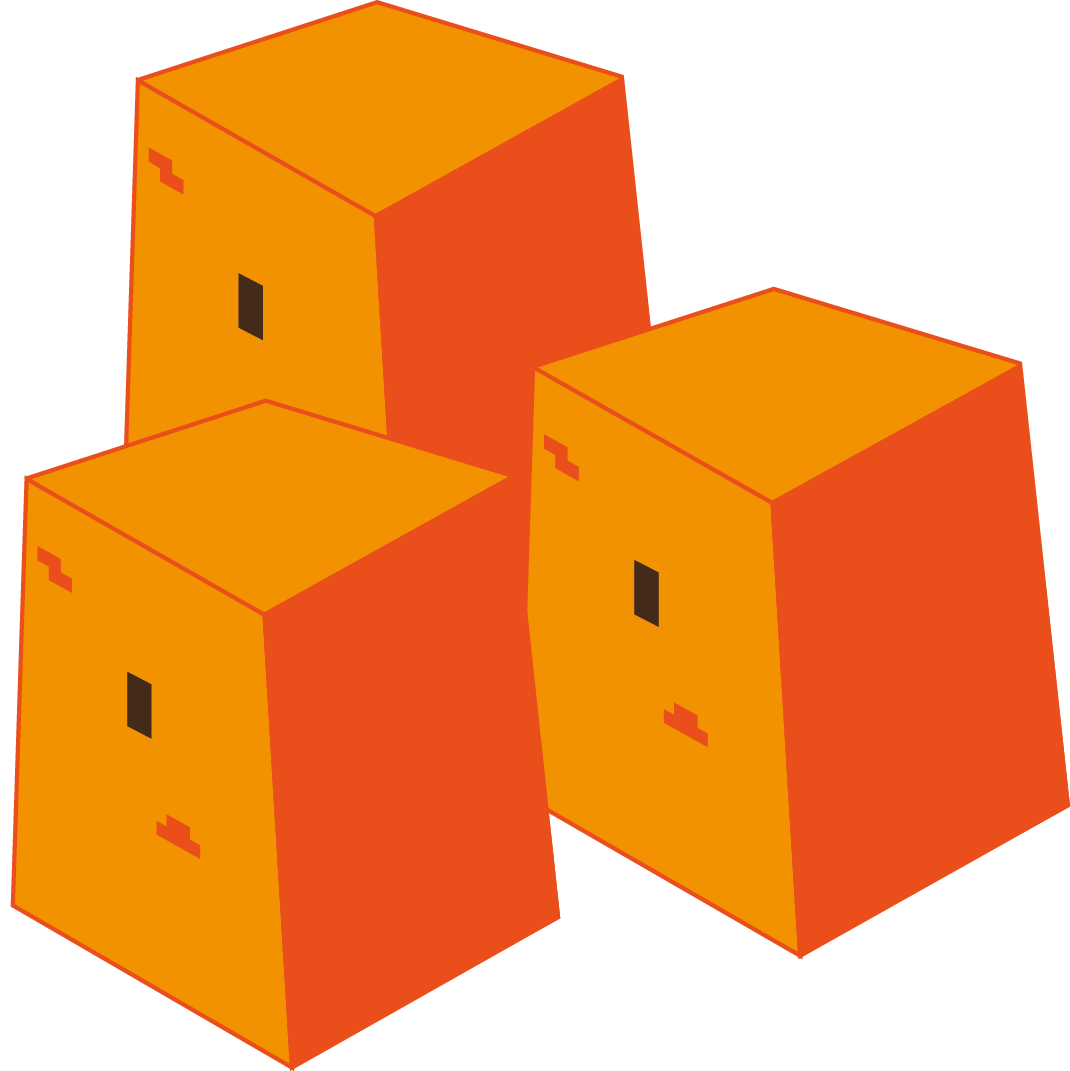
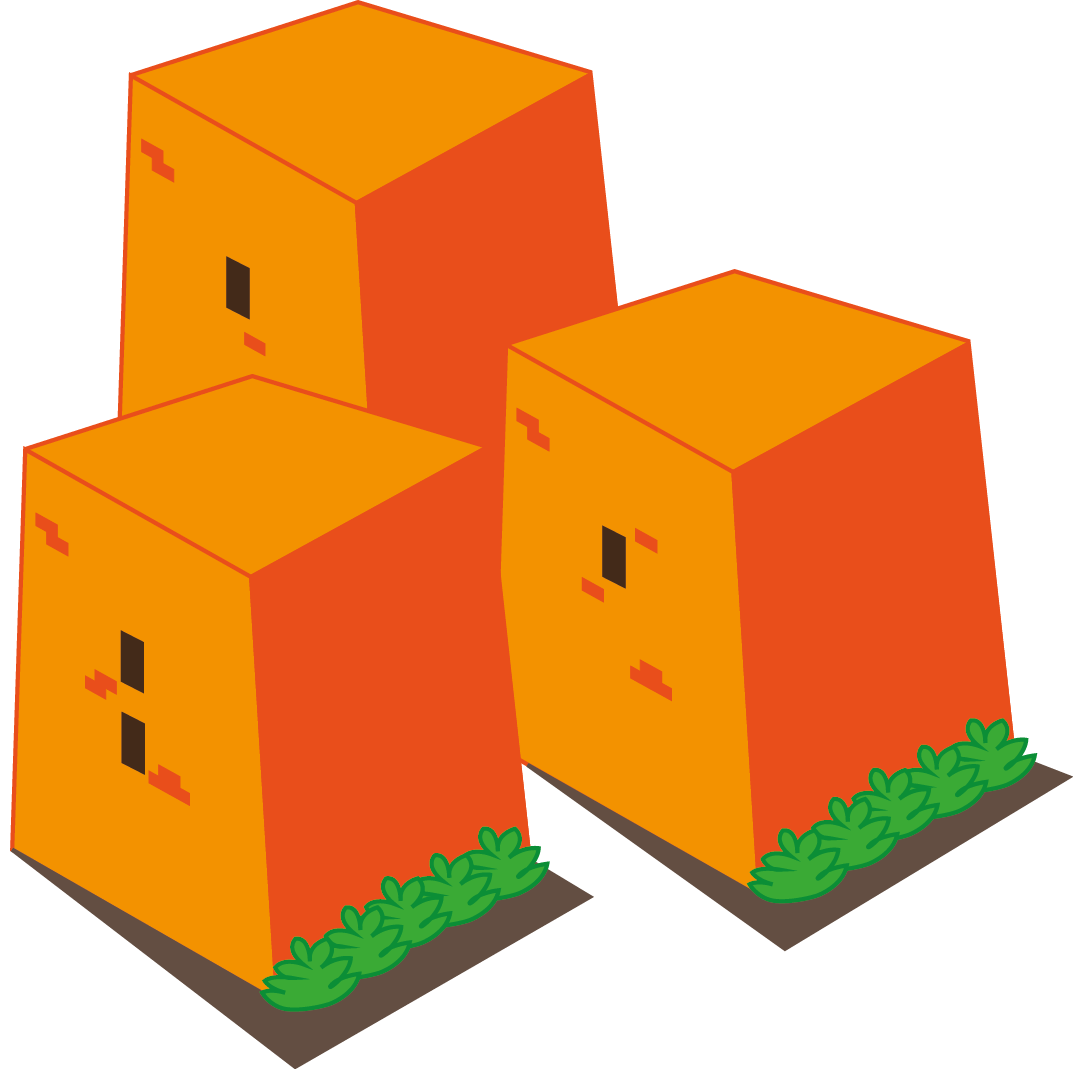
Added new props and fixed enemy color (again)

diff --git a/Assets/Scripts/Enemies/EnemyManager.cs b/Assets/Scripts/Enemies/EnemyManager.cs
@@ -25,7 +25,8 @@ public class EnemyManager : MonoBehaviour {
 		EnemyHealth hp = (EnemyHealth) instance.GetComponent("EnemyHealth");
         EnemyExperience xp = (EnemyExperience)instance.GetComponent("EnemyExperience");
 		ScorpioShooting ss = (ScorpioShooting) instance.GetComponent("ScorpioShooting");
-		hp.SetHealth(hp._startingHealth*5);
+        hp._startingHealth = hp._startingHealth * 5;
+        hp.SetHealth(hp._startingHealth);
         xp._experienceValue = (int)((float)xp._experienceValue * _bossExperienceMultiplier);
 		ss._boss = true;
 	}
